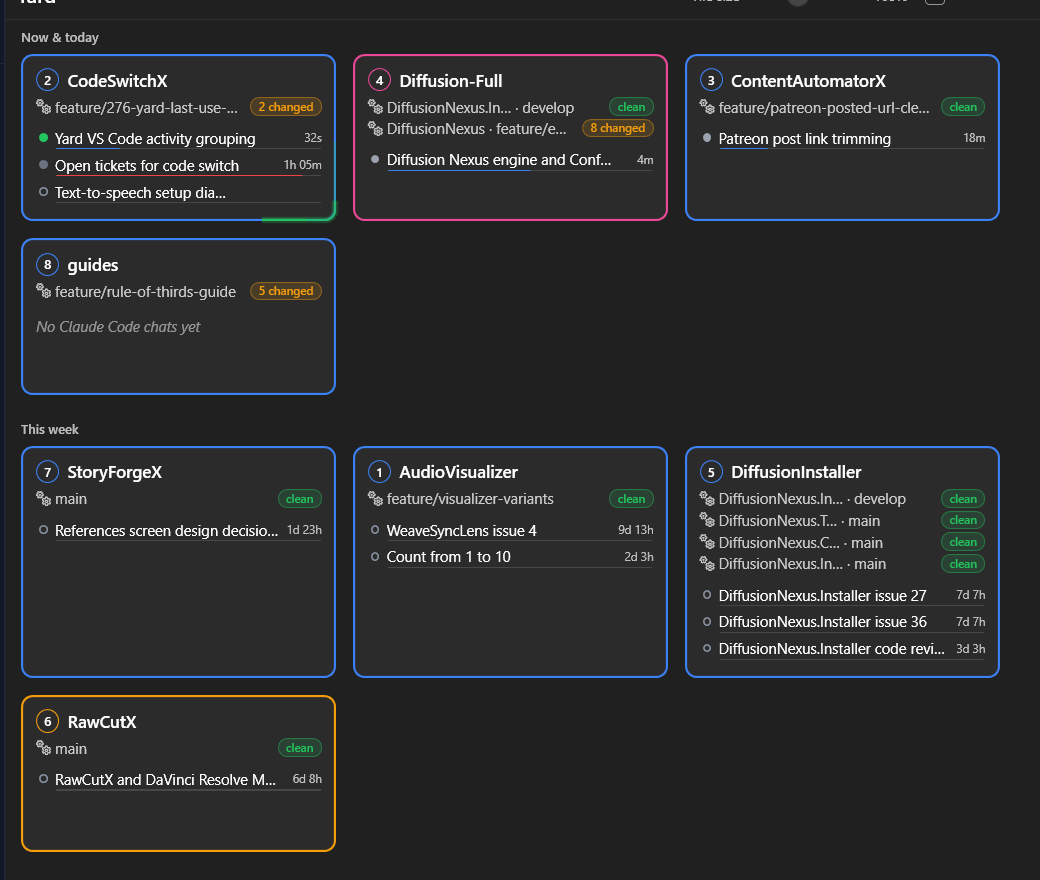
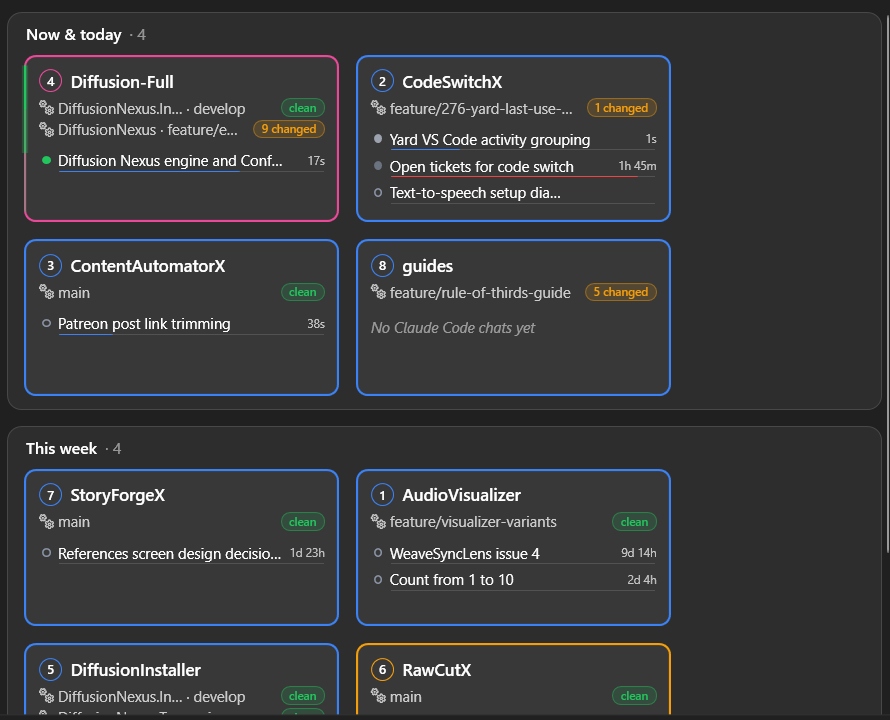
feat: each Yard group sits in a panel of its own with a bigger header and its tile count (#276)

Changed region(s): [[0.0, 0.0, 1.0, 1.0], [0.7584, 0.0, 0.7888, 0.0306]]

diff --git a/src/CodeSwitchX.UI/Yard/YardView.xaml b/src/CodeSwitchX.UI/Yard/YardView.xaml
@@ -196,21 +196,26 @@
       </DockPanel>
     </Border>
     <ScrollViewer VerticalScrollBarVisibility="Auto">
-      <!-- Now & today, This week, Older (#276); a group without tiles is not shown -->
-      <ItemsControl ItemsSource="{Binding Groups}" Margin="8">
+      <!-- Now & today, This week, Older (#276): each in a panel of its own, its header with how many tiles it holds; a group
+           without tiles is not shown -->
+      <ItemsControl ItemsSource="{Binding Groups}" Margin="12,12,12,4">
         <ItemsControl.ItemTemplate>
           <DataTemplate DataType="{x:Type yard:LastUseGroupViewModel}">
-            <StackPanel Margin="0,0,0,16">
-              <StackPanel.Style>
-                <Style TargetType="StackPanel">
+            <Border Margin="0,0,0,16" Padding="8,10,8,4" CornerRadius="14" BorderThickness="1" BorderBrush="#2EFFFFFF" Background="#0FFFFFFF">
+              <Border.Style>
+                <Style TargetType="Border">
                   <Style.Triggers>
                     <DataTrigger Binding="{Binding Tiles.Count}" Value="0">
                       <Setter Property="Visibility" Value="Collapsed" />
                     </DataTrigger>
                   </Style.Triggers>
                 </Style>
-              </StackPanel.Style>
-              <TextBlock Text="{Binding Name}" FontSize="13" FontWeight="SemiBold" Opacity="0.7" Margin="8,0,0,0" />
+              </Border.Style>
+              <StackPanel>
+              <StackPanel Orientation="Horizontal" Margin="10,0,0,2">
+                <TextBlock Text="{Binding Name}" FontSize="16" FontWeight="SemiBold" VerticalAlignment="Center" />
+                <TextBlock Text="{Binding Tiles.Count, StringFormat='· {0}'}" FontSize="16" Opacity="0.5" Margin="8,0,0,0" VerticalAlignment="Center" />
+              </StackPanel>
               <ItemsControl ItemsSource="{Binding Tiles}" ItemTemplate="{StaticResource TileTemplate}">
                 <!-- the Tile size slider zooms the tiles, text and all; a layout transform, so the wrap panel makes room -->
                 <ItemsControl.LayoutTransform>
@@ -223,7 +228,8 @@
                   </ItemsPanelTemplate>
                 </ItemsControl.ItemsPanel>
               </ItemsControl>
-            </StackPanel>
+              </StackPanel>
+            </Border>
           </DataTemplate>
         </ItemsControl.ItemTemplate>
       </ItemsControl>
